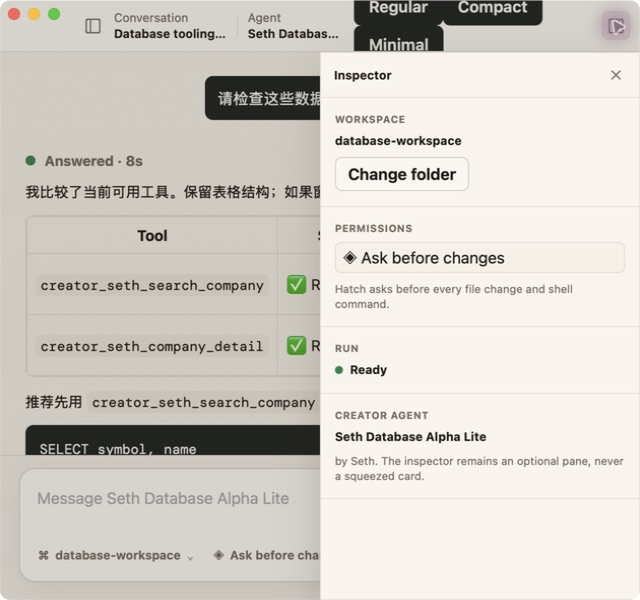
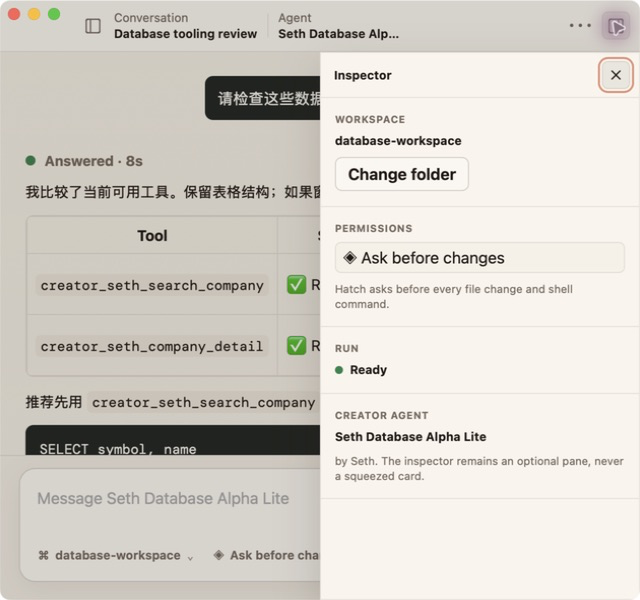
harden product context menu and refresh UAT evidence

Changed region(s): [[0.3438, 0.0, 0.875, 0.09], [0.9375, 0.09, 1.0, 0.18]]

diff --git a/desktop-app/src/renderer/main.jsx b/desktop-app/src/renderer/main.jsx
@@ -96,6 +96,7 @@ import {
 import { DesktopPreview } from "./desktop-preview.jsx";
 import {
   conversationIdFromLocation,
+  isEditableContextTarget,
   nativeContextRequest,
   requestNativeContextMenu,
   routeNativeCommand,
@@ -1952,6 +1953,20 @@ function App() {
         console.warn("[hatch:native-command-listener]", error);
       }
     });
+  }, []);
+
+  // WebKit's default product-area context menu includes Inspect Element when
+  // DevTools are available. Product surfaces must never expose that browser
+  // affordance: the row/tool/artifact handlers above still open Hatch's
+  // semantic native menu, while editable controls retain Cut/Copy/Paste and
+  // the browser preview keeps its normal DevTools menu.
+  useEffect(() => {
+    if (!window.__TAURI_INTERNALS__) return undefined;
+    const suppressProductContextMenu = (event) => {
+      if (!isEditableContextTarget(event.target)) event.preventDefault();
+    };
+    document.addEventListener("contextmenu", suppressProductContextMenu, true);
+    return () => document.removeEventListener("contextmenu", suppressProductContextMenu, true);
   }, []);
 
   function clearInterruptedRun() {

diff --git a/desktop-app/src-tauri/src/window_commands.rs b/desktop-app/src-tauri/src/window_commands.rs
@@ -822,6 +822,9 @@ fn open_auxiliary_window(
     .resizable(true)
     .visible(false)
     .focused(false)
+    // Product windows must not expose WebKit's browser/devtools context menu.
+    // The browser/Vite preview remains the development inspection surface.
+    .devtools(false)
     .on_page_load(move |window, payload| {
         if payload.event() == PageLoadEvent::Finished {
             let _ = window.show();
@@ -922,6 +925,9 @@ pub async fn open_conversation_window(
                 .resizable(true)
                 .visible(false)
                 .focused(false)
+                // Keep secondary product windows aligned with the main window:
+                // no browser Inspect Element affordance in ad-hoc/debug UAT.
+                .devtools(false)
                 .on_page_load(move |window, payload| {
                     if payload.event() != PageLoadEvent::Finished {
                         return;
@@ -956,10 +962,10 @@ pub async fn open_conversation_window(
     Err("native_window_registry_unavailable: Could not reserve a conversation window".into())
 }
 
-/// Opt-in context-menu bridge for non-editable product surfaces. This does not
-/// install a global WebView contextmenu interceptor, so text inputs preserve
-/// the standard browser menu and development builds retain normal DevTools
-/// behavior outside explicitly requested Hatch surfaces.
+/// Opt-in context-menu bridge for non-editable product surfaces. Text inputs
+/// preserve the standard operating-system editing menu; product windows have
+/// WebKit devtools disabled, while the browser/Vite preview remains the
+/// development inspection surface.
 #[tauri::command]
 pub fn show_native_context_menu(
     app: AppHandle,

diff --git a/docs/proof/desktop-ui/acceptance-matrix.md b/docs/proof/desktop-ui/acceptance-matrix.md
@@ -25,7 +25,7 @@
 | 每窗口 Conversation、Workspace、draft、zoom、scroll、cursor 独立保存 | PARTIAL | native settings schema、renderer/native tests；URL conversation window routing | 三个并行真实窗口关闭/重开及 crash/restart E2E |
 | Conversation Library 与 server-issued IDs | PASS（本机） | Runtime REST/WS tests、renderer client tests；不再以 timestamp 作为新 ID | 端到端真实账户的 A/B agent 五会话验收 |
 | Durable Run、幂等 message、observer recovery | PASS（本机） | Runtime 225 tests；断连/启动标为 `interrupted`，不重放 tool | 桌面应用 crash/reload 的真实 attach/replay UAT |
-| Native application/context menu 与 focused-window routing | PASS（macOS UAT） | View menu、context registry、window lifecycle tests | Windows native popup 和多窗口焦点 UAT |
+| Native application/context menu 与 focused-window routing | PASS（macOS UAT） | View menu、context registry、window lifecycle tests；重打包 app 的 secondary-click AX tree 不含 `WKMenuItemIdentifierInspectElement`；Tauri `devtools:false` | Windows native popup 和多窗口焦点 UAT |
 | Finder/Explorer Reveal 与 window attention | PASS（代码 + macOS bridge） | grant-bound reveal、attention command；artifact Quick Look 未伪装 | Windows Explorer 和 Dock/taskbar 真机行为 |
 | Settings/About auxiliary windows | PASS（macOS UAT） | 独立 native auxiliary windows 与 accessibility tree | Windows owner/focus/close parity |
 | Quick Look / Windows Open | DEFERRED | spec contract 保留，当前菜单不暴露假动作 | 另立平台集成任务与双端验收 |
@@ -47,4 +47,4 @@ desktop-app: npm run build  # strict ad-hoc DMG UAT
 ```
 
 `npm run build:app` 与 `npm run build` 产物是 ad-hoc/UAT `.app`/DMG，当前验证的 DMG 为
-`Hatch_0.1.0_aarch64.dmg`（`sha256:79440b3d220c0a04bd39a0529805189fffd0234f94ae02339c0786fafeb1aef3`）。它们不是可发布的 notarized artifact。正式发布必须在 CI 注入真实 Developer ID/Team ID，并完成签名、notarization、安装后重启和无 prompt 验收。
+`Hatch_0.1.0_aarch64.dmg`（`sha256:dabd9bbd96dde92fb77b85400388ee137c06881404cb7ef19558b6ff3a64bc66`）。它们不是可发布的 notarized artifact。正式发布必须在 CI 注入真实 Developer ID/Team ID，并完成签名、notarization、安装后重启和无 prompt 验收。

diff --git a/docs/proof/desktop-ui/README.md b/docs/proof/desktop-ui/README.md
@@ -58,6 +58,13 @@ calls are parented to the invoking window, and artifact Reveal accepts only a
 grant ID plus a workspace-relative path; Rust re-checks canonical containment
 before opening Finder/Explorer.
 
+The product window disables WebKit devtools in its Tauri window configuration.
+On the rebuilt ad-hoc app, a product-area secondary click therefore did not
+expose `Inspect Element`; the live renderer's conversation/tool/artifact rows
+route their DOM `contextmenu` events to the semantic Tauri popup, while text
+inputs retain the operating-system editing menu. The browser/Vite preview is
+still the place to inspect HTML during development.
+
 The macOS accessibility tree additionally confirmed that a minimal overlay
 removes the hidden pane from the main tree, focuses its close action on open,
 and returns focus to the toolbar toggle after Escape. Window app-data now
